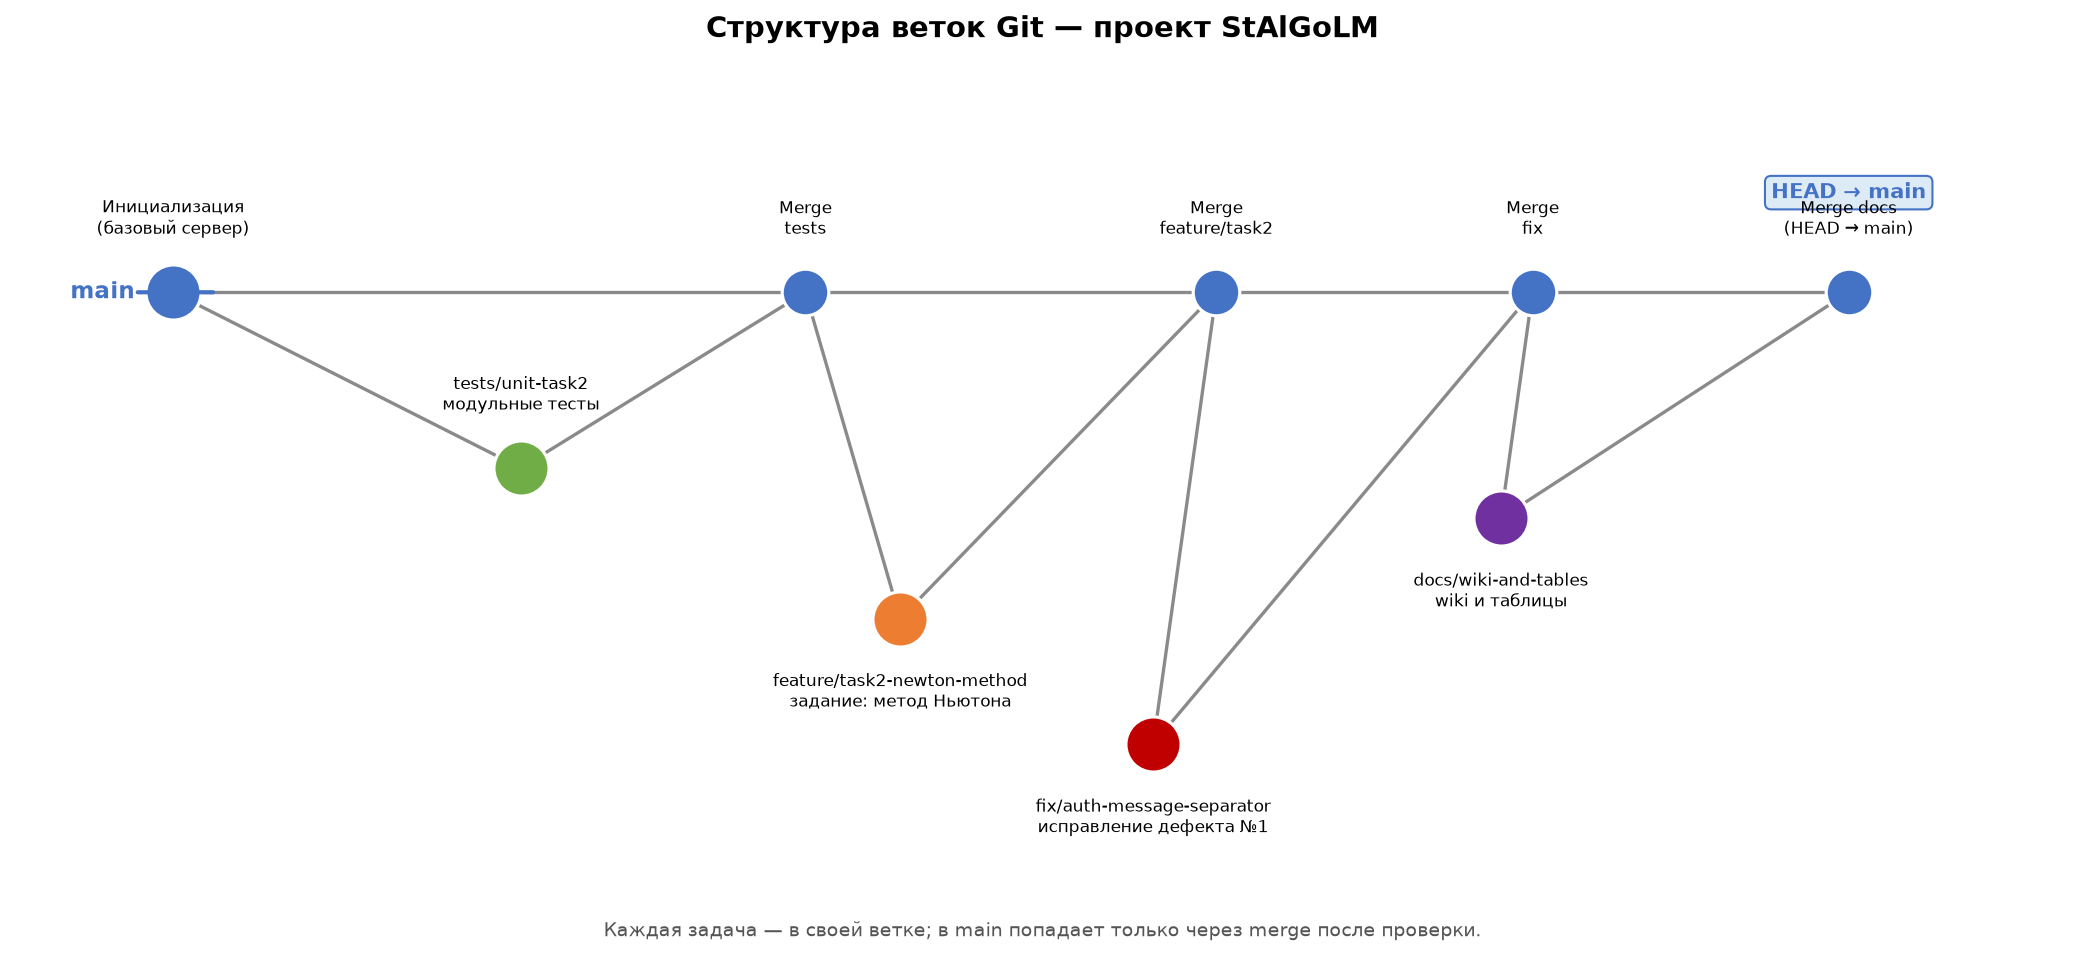
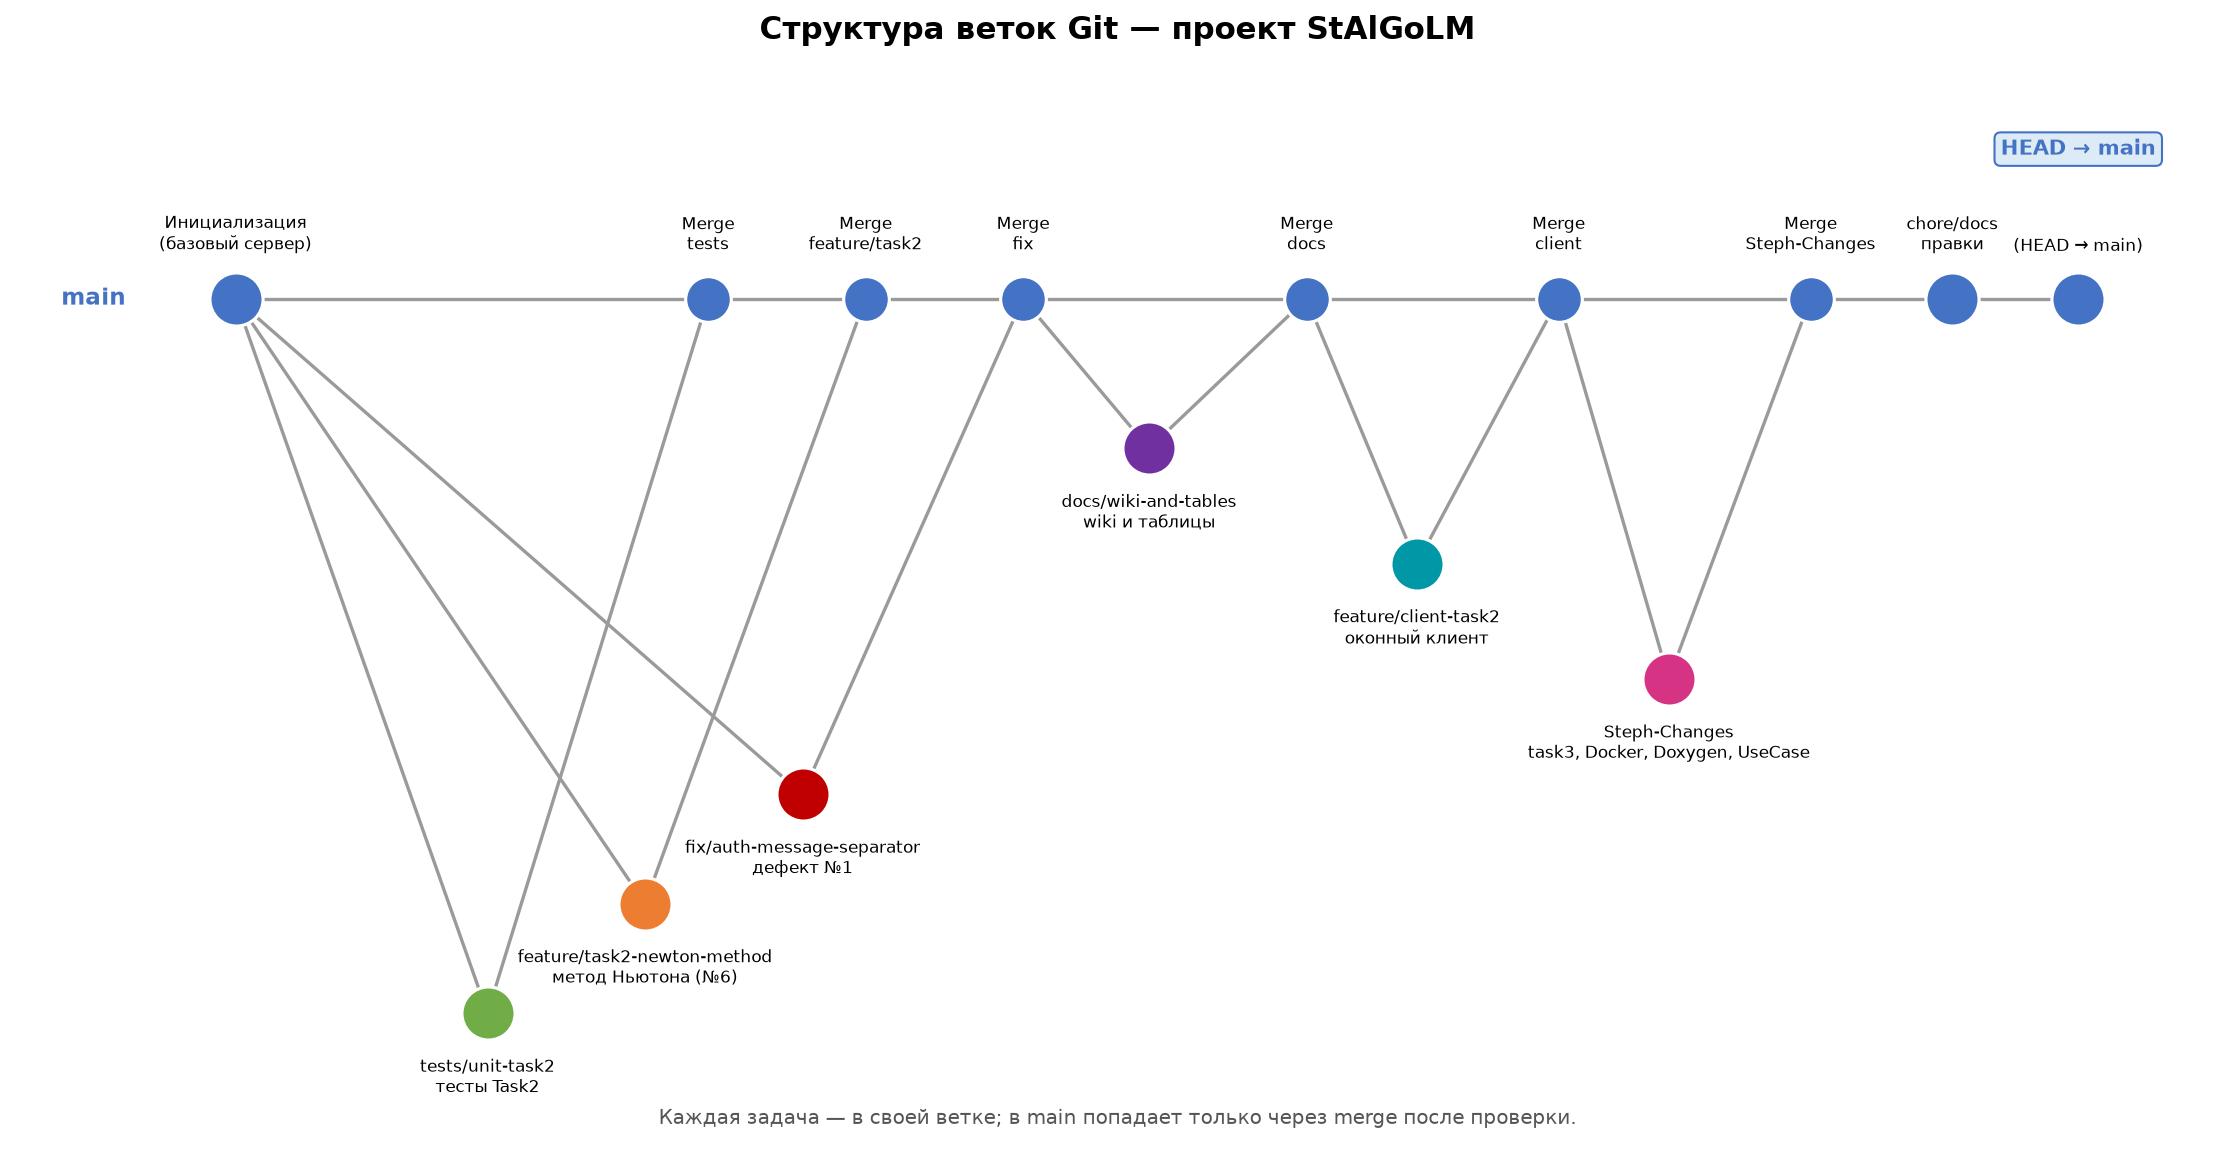
docs: страница «Структура Git» после слияния — ветка Steph-Changes, свежая схема и история

diff --git a/wiki/Структура-Git.md b/wiki/Структура-Git.md
@@ -10,53 +10,69 @@
 
 ## Ветки проекта
 
-| Ветка | Назначение | Что попало в main |
-|---|---|---|
-| `main` | Основная линия развития. Только рабочие, проверенные версии | — |
-| `feature/task2-newton-method` | Задание по варианту №6: генератор заданий «метод Ньютона» вместо заглушки task2 | 10 шаблонов функций, 4 варианта ответа, обновлённый help |
-| `fix/auth-message-separator` | Исправление дефекта №1 (верный пароль отклонялся из-за байта-разделителя) | новый разбор сообщений в `mytcpserver.cpp`, буфер `mBuffers` |
-| `tests/unit-task2` | Модульные тесты (QtTest) для математики task2 | `tests/tst_task2_test.cpp`: 4 теста, 400 генераций |
-| `docs/wiki-and-tables` | Wiki проекта и таблицы тестирования | `wiki/`, `таблицы/` |
+| Ветка | Автор | Назначение | Что попало в main |
+|---|---|---|---|
+| `main` | — | Основная линия развития. Только рабочие, проверенные версии | — |
+| `feature/task2-newton-method` | Голь | Задание по варианту №6: генератор «метод Ньютона» вместо заглушки task2 | 10 шаблонов функций, 4 варианта ответа, обновлённый help |
+| `fix/auth-message-separator` | Голь | Исправление дефекта №1 (верный пароль отклонялся из-за байта-разделителя) | новый разбор сообщений в `mytcpserver.cpp`, буфер `mBuffers` |
+| `tests/unit-task2` | Голь | Модульные тесты (QtTest) для математики task2 | `tests/tst_task2_test.cpp`: 4 теста, 400 генераций |
+| `docs/wiki-and-tables` | Голь | Wiki проекта и таблицы тестирования | `wiki/`, `таблицы/` |
+| `feature/client-task2` | Голь | Оконный клиент (Qt Widgets) | `client/`: подключение, аккаунты, задания, ответы |
+| `Steph-Changes` | Степан | Task3 — метод половинного деления (вариант №3) + Docker + Doxygen + UseCase/диаграммы | `task3.cpp/.h`, `Dockerfile`, `compose.yaml`, `documentation/`, тесты Task3 |
 
 ## История коммитов (как получилось на самом деле)
 
 ```
-*   36a1e18 (HEAD -> main) Merge branch 'docs/wiki-and-tables'
-|\
-| * 77a397c docs: Wiki проекта и таблицы тестирования
-* | b9742d7 Merge branch 'fix/auth-message-separator'
-|\ \
-| |/
-|/|
-* |   5d749f5 Merge branch 'feature/task2-newton-method'
-|\ \
-| * | b90903c feat: task2 переведён на метод Ньютона (вариант №6)
-* | | a7578ab Merge branch 'tests/unit-task2'
-|\ \ \
-| * | | 339e062 test: модульные тесты для task2
-|/ / /
-* | | 5107d7b (fix/auth-message-separator) fix: разделитель 0x01
-|/ /
-* | 4373027 Инициализация: TCP-сервер с аккаунтами, ролями и заданиями
+* db38069 docs: wiki после слияния — команда из трёх человек, страница Task3, протокол и архитектура под task3
+* 02a8939 docs: актуализирован тест-кейс Task2 (лист переименован Task5 -> Task2)
+* 4f386d6 chore: убрать lock-файлы LibreOffice из репозитория и игнорировать их
+*   a774144 Merge branch 'Steph-Changes' в main: task3 (метод половинного деления), Docker, Doxygen, тесты task3
+|\  
+| * cb5df34 Add Task3, documentation, Docker and tests
+|/  
+* 4e1c592 chore: игнорировать временные файлы Excel (~$*)
+*   dc21866 Merge branch 'feature/client-task2' в main: оконный клиент
+|\  
+| * 8d27a1d feat: оконный клиент для сервера (Qt Widgets)
+|/  
+* 1d60bef chore: исключить личные памятки из репозитория
+* 0276953 docs: страница «Структура Git» — схема ветвления и описание модели
+*   8739bf6 Merge branch 'docs/wiki-and-tables' в main
+|\  
+| * b804a35 docs: Wiki проекта и таблицы тестирования
+|/  
+*   4c807d4 Merge branch 'fix/auth-message-separator' в main: исправление дефекта №1
+|\  
+| * 2ced5f8 fix: разделитель сообщения 0x01 ищется внутри пакета (дефект №1)
+* |   b470144 Merge branch 'feature/task2-newton-method' в main: задание по варианту №6
+|\ \  
+| * | 7abcb67 feat: task2 переведён на метод Ньютона (вариант №6 из списка)
+| |/  
+* |   6eff2af Merge branch 'tests/unit-task2' в main: модульные тесты task2
+|\ \  
+| |/  
+|/|   
+| * f4b2458 test: модульные тесты для task2 (метод Ньютона)
+|/  
+* 5c11172 Инициализация: TCP-сервер с аккаунтами, ролями и заданиями
 ```
-
-Посмотреть самому: `git log --graph --oneline --all`.
 
 ## Рабочий цикл (как делалась каждая задача)
 
 ```
 git checkout main                  # стартуем от рабочей версии
-git checkout -b feature/имя        # новая ветка под задачу
+git checkout -b имя-ветки          # новая ветка под задачу
 # ... правки, коммиты ...
-git checkout main                  # вернуться в main
-git merge --no-ff feature/имя      # влить задачу в main отдельным merge-коммитом
-git branch -d feature/имя          # (по желанию) удалить влитую ветку
+git push -u origin имя-ветки       # опубликовать ветку (как делал Степан)
+git checkout main
+git merge --no-ff имя-ветки        # влить задачу в main отдельным merge-коммитом
+git push                           # обновить сервер
 ```
 
 `--no-ff` (no fast-forward) заставляет git создать отдельный merge-коммит, даже если можно было бы «просто прокрутить» main вперёд — так в истории видно, где вливалась каждая задача, и схема ветвления читается как на картинке выше.
 
 ## Как выглядит репозиторий
 
-- Игнорируемое (`.gitignore`): папки сборки `build*/`, `*.o`, локальная база `server.db`, файлы Qt Creator (`*.pro.user`).
+- Игнорируемое (`.gitignore`): папки сборки `build*/`, `*.o`, локальная база `server.db`, файлы Qt Creator (`*.pro.user`), временные файлы Office (`~$*`, `.~lock.*#`).
 - Файл `README.md` — краткое описание и сборка.
-- Коммиты на русском, в формате `тип: суть` (feat / fix / test / docs) — по типу коммита сразу видно, что это было.
+- Коммиты на русском, в формате `тип: суть` (feat / fix / test / docs / chore) — по типу коммита сразу видно, что это было.
